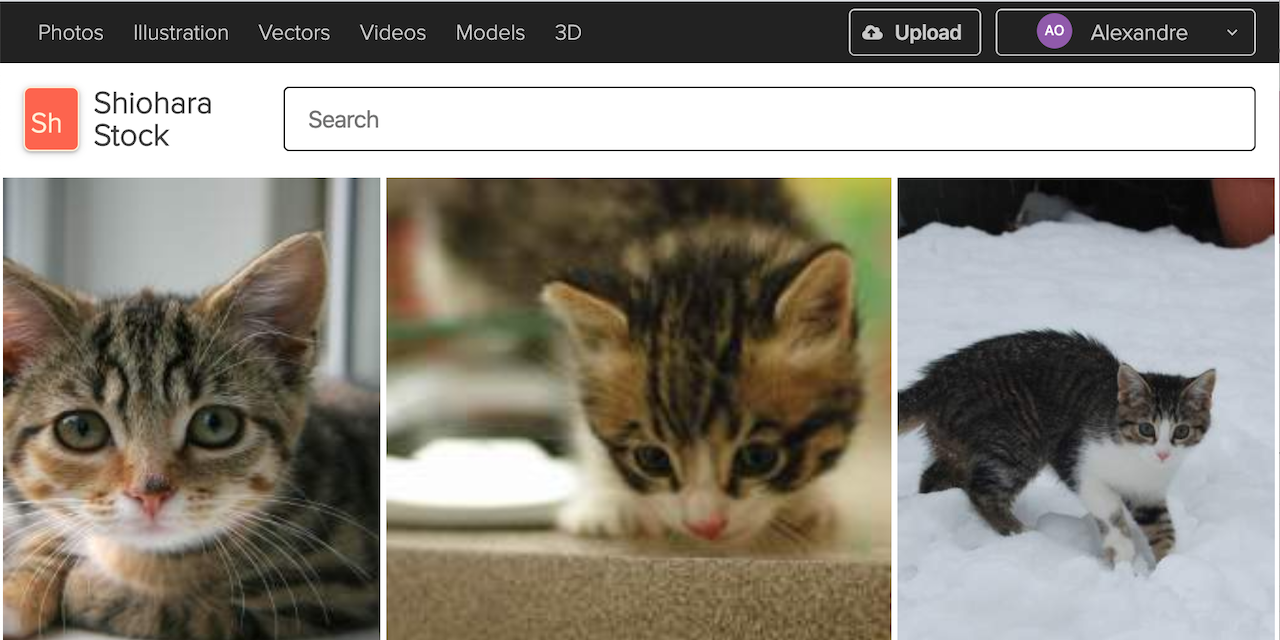
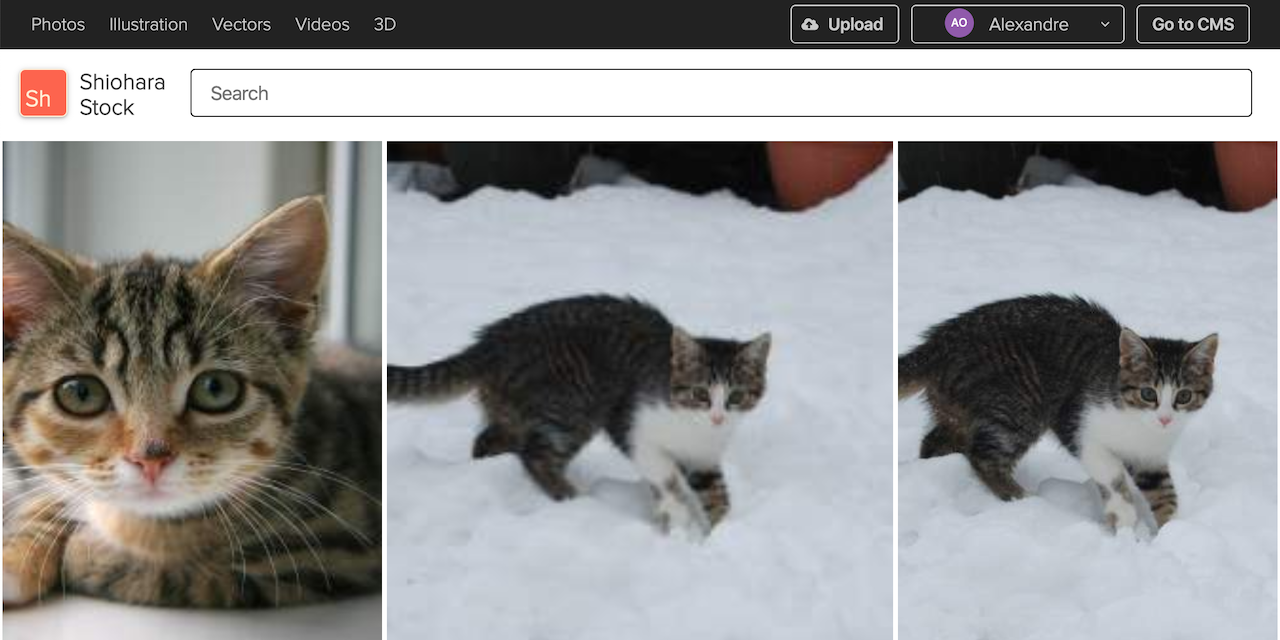
- Fixed Layout

diff --git a/src/components/TopHeader.js b/src/components/TopHeader.js
@@ -61,17 +61,7 @@ function TopHeader({
           margin="10px"
         >
           Videos
-            </Text>
-
-        <Text
-          as="div"
-          fontSize="sm"
-          fontWeight="regular"
-          margin="10px"
-        >
-          Models
-            </Text>
-
+            </Text>    
         <Text
           as="div"
           fontSize="sm"
@@ -128,6 +118,15 @@ function TopHeader({
               </MenuGroup>
             </MenuList>
           </Menu>
+          <Button
+            size="sm"
+            bg="#222"
+            color="#cacaca"            
+            marginRight="10px"
+            marginLeft="10px"
+          >
+            Go to CMS
+                </Button>
 
 
 

diff --git a/src/components/Header.js b/src/components/Header.js
@@ -31,10 +31,10 @@ function Header({
             fontWeight="bold"
             className={styles.shTextLogo}
           >
-            Shiohara Stock
+            Shiohara<br/>Stock
             </Text>
           <FormControl display="inline-flex"
-            marginLeft="20px" width="100%">
+            marginLeft="20px" width="calc(100% - 150px)">
             <Input id="search" placeholder="Search" width="100%"/>
           </FormControl>
         </Flex>

diff --git a/src/index.module.css b/src/index.module.css
@@ -8,7 +8,6 @@
     font-weight: normal;
     font-style: normal;
 }
-
 @font-face {
     font-family: 'ProximaNovaReg';
     src: url('/fonts/proximanova-reg-webfont.eot');
@@ -18,6 +17,12 @@
     url('/fonts/proximanova-reg-webfont.svg#ProximaNovaReg') format('svg');
     font-weight: normal;
     font-style: normal;
+}
+
+* {
+    webkit-box-sizing: border-box;
+    -moz-box-sizing: border-box;
+    box-sizing: border-box;
 }
 
 body {

diff --git a/src/components/Header.module.css b/src/components/Header.module.css
@@ -20,5 +20,8 @@
 }
 
 .shTextLogo {
-    padding-left: 10px
+    padding-left: 10px;
+    font-size: 1.1rem !important;    
+    font-weight: 900 !important ;
+    line-height: normal;
 }
